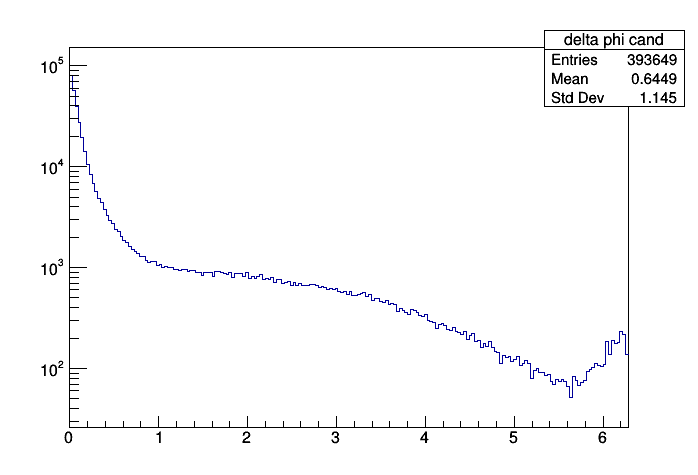
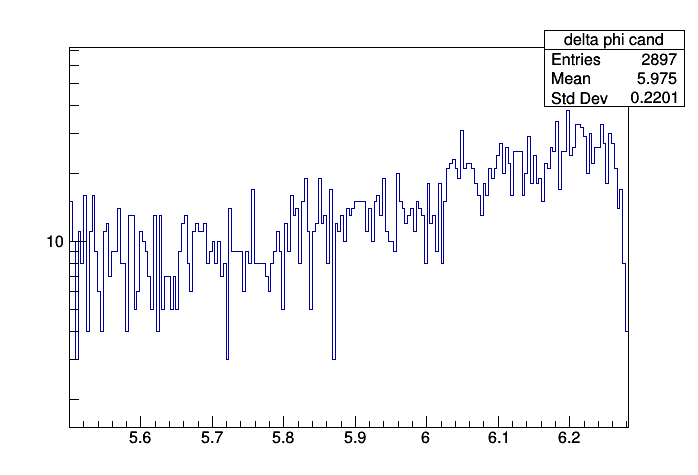
analysis mbased on delta phi

diff --git a/checkddbar.py b/checkddbar.py
@@ -5,6 +5,7 @@ import multiprocessing as mp
 import matplotlib.pyplot as plt
 
 from ROOT import TH1F, TH2F, TF1, TCanvas
+from ROOT import kBlack, kBlue, kRed
 from root_numpy import fill_hist
 from machine_learning_hep.utilities import create_folder_struc, seldf_singlevar, openfile
 from multiprocessing import Pool, cpu_count
@@ -12,15 +13,16 @@ from multiprocessing import Pool, cpu_count
 import lz4.frame
 import time
 
-debug = True
-#debug = False
+#debug = True
+debug = False
 
 #plots = True
 plots = False
+
 start= time.time()
 
 if (debug):
-    dfreco = pickle.load(openfile("/data/Derived/D0kINT7HighMultwithJets/vAN-20191003_ROOT6-1/pp_2018_data/260_20191004-0008/skpkldecmerged/AnalysisResultsReco6_8_0.65.pkl.lz4", "rb"))
+    dframe= pickle.load(openfile("/data/Derived/D0kINT7HighMultwithJets/vAN-20191003_ROOT6-1/pp_2018_data/260_20191004-0008/skpkldecmerged/AnalysisResultsReco6_8_0.65.pkl.lz4", "rb"))
 
 else:
     dfreco1 = pickle.load(openfile("/data/Derived/D0kINT7HighMultwithJets/vAN-20191003_ROOT6-1/pp_2018_data/260_20191004-0008/skpkldecmerged/AnalysisResultsReco2_4_0.75.pkl.lz4", "rb"))
@@ -28,19 +30,21 @@ else:
     dfreco3 = pickle.load(openfile("/data/Derived/D0kINT7HighMultwithJets/vAN-20191003_ROOT6-1/pp_2018_data/260_20191004-0008/skpkldecmerged/AnalysisResultsReco6_8_0.65.pkl.lz4", "rb"))
     dfreco4 = pickle.load(openfile("/data/Derived/D0kINT7HighMultwithJets/vAN-20191003_ROOT6-1/pp_2018_data/260_20191004-0008/skpkldecmerged/AnalysisResultsReco8_24_0.45.pkl.lz4", "rb"))
     frames = [dfreco1, dfreco2, dfreco3, dfreco4]
-    dfreco = pd.concat(frames)
+    dframe = pd.concat(frames)
 
-dfreco = dfreco.query("y_test_probxgboost>0.8")
+dframe = dframe.query("y_test_probxgboost>0.8")
+dfreco = dframe.reset_index(drop = True)
 
 end = time.time()
 print("Data loaded in", end - start, "sec")
 
 if(debug):
     print("Debug mode: reduced data")
-    dfreco = dfreco[:20000]
+    dfreco = dfreco[:5000]
 print("Size of data", dfreco.shape)
 
 print(dfreco.columns)
+
 binning = 200
 
 cYields = TCanvas('cYields', 'The Fit Canvas')
@@ -148,7 +152,6 @@ start = time.time()
 grouped = dfreco.groupby(["run_number","ev_id"])
 end = time.time()
 print("groupby done in", end - start, "sec")
-
 start = time.time()
 grouplen = pd.array(grouped.size())
 end = time.time()
@@ -177,6 +180,7 @@ cYields.SaveAs("h_grouplen.png")
 
 
 #parallelized functions over the dataframe
+
 num_cores = int(cpu_count()/2)
 num_part  = num_cores*2
 
@@ -196,16 +200,20 @@ def filter_eta(df):
 
 def filter_phi(df):
     df = df.groupby(["run_number", "ev_id"], sort = False).filter(lambda x:
-            x.phi_cand.max() - x.phi_cand.min() > 0)
+            x.phi_cand.max() - x.phi_cand.min() > 5.5)
     return df
 
 start = time.time()
-filtrated_eta = parallelize_df(dfreco, filter_eta)
-end = time.time()
-print("eta filter", end - start, "sec")
+#filtrated_eta = parallelize_df(dfreco, filter_eta)
+#
+#end = time.time()
+#print("eta filter", end - start, "sec")
+
 filtrated_phi = parallelize_df(dfreco, filter_phi)
+
 end2 = time.time()
-print("phi filter", end2 - end, "sec")
+#print("phi filter", end2 - end "sec")
+
 print("paralellizing is done in", end2 - start, "sec")
 
 #filtrated_phi = grouped.filter(lambda x: x.phi_cand.max() - x.phi_cand.min() >
@@ -215,18 +223,33 @@ print("paralellizing is done in", end2 - start, "sec")
 
 #print("Grouped and filtered")
 
-start = time.time()
-filtrated_phi = filtrated_phi.groupby(["run_number", "ev_id"])
-end1 = time.time()
-phi_vec     = filtrated_phi["phi_cand"]
-inv_vec     = filtrated_phi["inv_mass"]
-eta_phi_vec = filtrated_phi["eta_cand"]
-d_phi_dist = np.abs(phi_vec.max() - phi_vec.min())
-d_inv_dist = np.abs(inv_vec.max() - inv_vec.min())
-d_eta_phi_dist = np.abs(eta_phi_vec.max() - eta_phi_vec.min())
-end2 = time.time()
-print("grouping phi", end1 - start, "sec")
-print("calc dist", end2 - end1, "sec")
+grouped_phi = filtrated_phi.groupby(["run_number", "ev_id"])
+phi_vec     = grouped_phi["phi_cand"]
+
+d_phi_dist = np.abs(phi_vec.max() - phi_vec.min()) #delta phi destribution as difference between max and min phi in the group
+
+# find positions of max and min elements in group
+min_idx_vec = phi_vec.idxmin()
+max_idx_vec = phi_vec.idxmax()
+
+new_df_min = filtrated_phi.loc[min_idx_vec,]
+print("compare length of min elements amount and length of new df",
+        len(min_idx_vec), len(new_df_min))
+
+new_df_max = filtrated_phi.loc[max_idx_vec,]
+print("compare length of min elements amount and length of new df",
+        len(max_idx_vec), len(new_df_max))
+
+eta_max_vec = new_df_max["eta_cand"]
+eta_min_vec = new_df_min["eta_cand"]
+
+inv_mass_max_vec = new_df_max["inv_mass"]
+inv_mass_min_vec = new_df_min["inv_mass"]
+
+pt_max_vec = new_df_max["pt_cand"]
+pt_min_vec = new_df_min["pt_cand"]
+
+
 h_d_phi_cand = TH1F("delta phi cand" , "", 200, d_phi_dist.min(),
         d_phi_dist.max())
 fill_hist(h_d_phi_cand, d_phi_dist)
@@ -234,29 +257,61 @@ cYields.SetLogy(True)
 h_d_phi_cand.Draw()
 cYields.SaveAs("h_d_phi_cand.png")
 
-cYields = TCanvas('cYields', 'The Fit Canvas')
-h_invmass_phi = TH2F("invariant mass/delta phi" , "", 200,
-        d_inv_dist.min(), d_inv_dist.max(), 200, d_phi_dist.min(), d_phi_dist.max())
-inv_phi = np.column_stack((d_inv_dist, d_phi_dist))
-fill_hist(h_invmass_phi, inv_phi)
-h_invmass_phi.Draw("BOX")
-cYields.SaveAs("h_invmass_phi.png")
+cYields.SetLogy(False)
+h_first_cand_mass = TH1F("inv_mass of the first cand" , "", 200,
+        inv_mass_max_vec.min(), inv_mass_max_vec.max())
+fill_hist(h_first_cand_mass, inv_mass_max_vec)
+h_second_cand_mass = TH1F("inv_mass of the second cand" , "", 200,
+        inv_mass_min_vec.min(), inv_mass_min_vec.max())
+fill_hist(h_second_cand_mass, inv_mass_min_vec)
+h_first_cand_mass.SetLineColor(kRed)
+h_second_cand_mass.SetLineColor(kBlue)
+h_first_cand_mass.Draw()
+h_second_cand_mass.Draw("same")
+cYields.SaveAs("h_inv_mass_cand.png")
 
+h_first_cand_pt = TH1F("pt of the first cand" , "", 200,
+        pt_max_vec.min(), pt_max_vec.max())
+fill_hist(h_first_cand_pt, pt_max_vec)
+h_second_cand_pt = TH1F("pt of the second cand" , "", 200,
+        pt_min_vec.min(),pt_min_vec.max())
+fill_hist(h_second_cand_pt, pt_min_vec)
+h_first_cand_pt.SetLineColor(kRed)
+h_second_cand_pt.SetLineColor(kBlue)
+h_first_cand_pt.Draw()
+h_second_cand_pt.Draw("same")
+cYields.SaveAs("h_pt_cand_max_min.png")
 
-start = time.time()
-filtrated_eta = filtrated_eta.groupby(["run_number", "ev_id"])
-end1 = time.time()
-eta_vec     = filtrated_eta["eta_cand"]
-d_eta_dist = np.abs(eta_vec.max() - eta_vec.min())
-end2 = time.time()
-print("grouping eta", end1 - start, "sec")
-print("calc dist", end2 - end1, "sec")
-h_d_eta_cand = TH1F("delta eta cand" , "", 200, 0., 3.)
-fill_hist(h_d_eta_cand, d_eta_dist)
-cYields.SetLogy(True)
-h_d_eta_cand.Draw()
-cYields.SaveAs("h_d_eta_cand.png")
+h_first_cand_eta = TH1F("eta of the first cand" , "", 200,
+        eta_max_vec.min(), eta_max_vec.max())
+fill_hist(h_first_cand_eta, eta_max_vec)
+h_second_cand_eta = TH1F("eta of the second cand" , "", 200,
+        eta_min_vec.min(), eta_min_vec.max())
+fill_hist(h_second_cand_eta, eta_min_vec)
+h_first_cand_eta.SetLineColor(kRed)
+h_second_cand_eta.SetLineColor(kBlue)
+h_first_cand_eta.Draw()
+h_second_cand_eta.Draw("same")
+cYields.SaveAs("h_eta_cand_max_min.png")
 
+#start = time.time()
+#filtrated_eta = filtrated_eta.groupby(["run_number", "ev_id"])
+#end1 = time.time()
+#eta_vec     = filtrated_eta["eta_cand"]
+#d_eta_dist = np.abs(eta_vec.max() - eta_vec.min())
+#end2 = time.time()
+#print("grouping eta", end1 - start, "sec")
+#print("calc dist", end2 - end1, "sec")
+#h_d_eta_cand = TH1F("delta eta cand" , "", 200, d_eta_dist.min(),
+#        d_eta_dist.max())
+#fill_hist(h_d_eta_cand, d_eta_dist)
+#cYields.SetLogy(True)
+#h_d_eta_cand.Draw()
+#cYields.SaveAs("h_d_eta_cand.png")
+
+d_eta_phi_dist = np.abs(eta_max_vec.values - eta_min_vec.values)
+
+print(d_eta_phi_dist)
 cYields = TCanvas('cYields', 'The Fit Canvas')
 h_eta_phi = TH2F("delta eta/delta phi" , "", 200,
         d_eta_phi_dist.min(), d_eta_phi_dist.max(), 200, d_phi_dist.min(), d_phi_dist.max())
